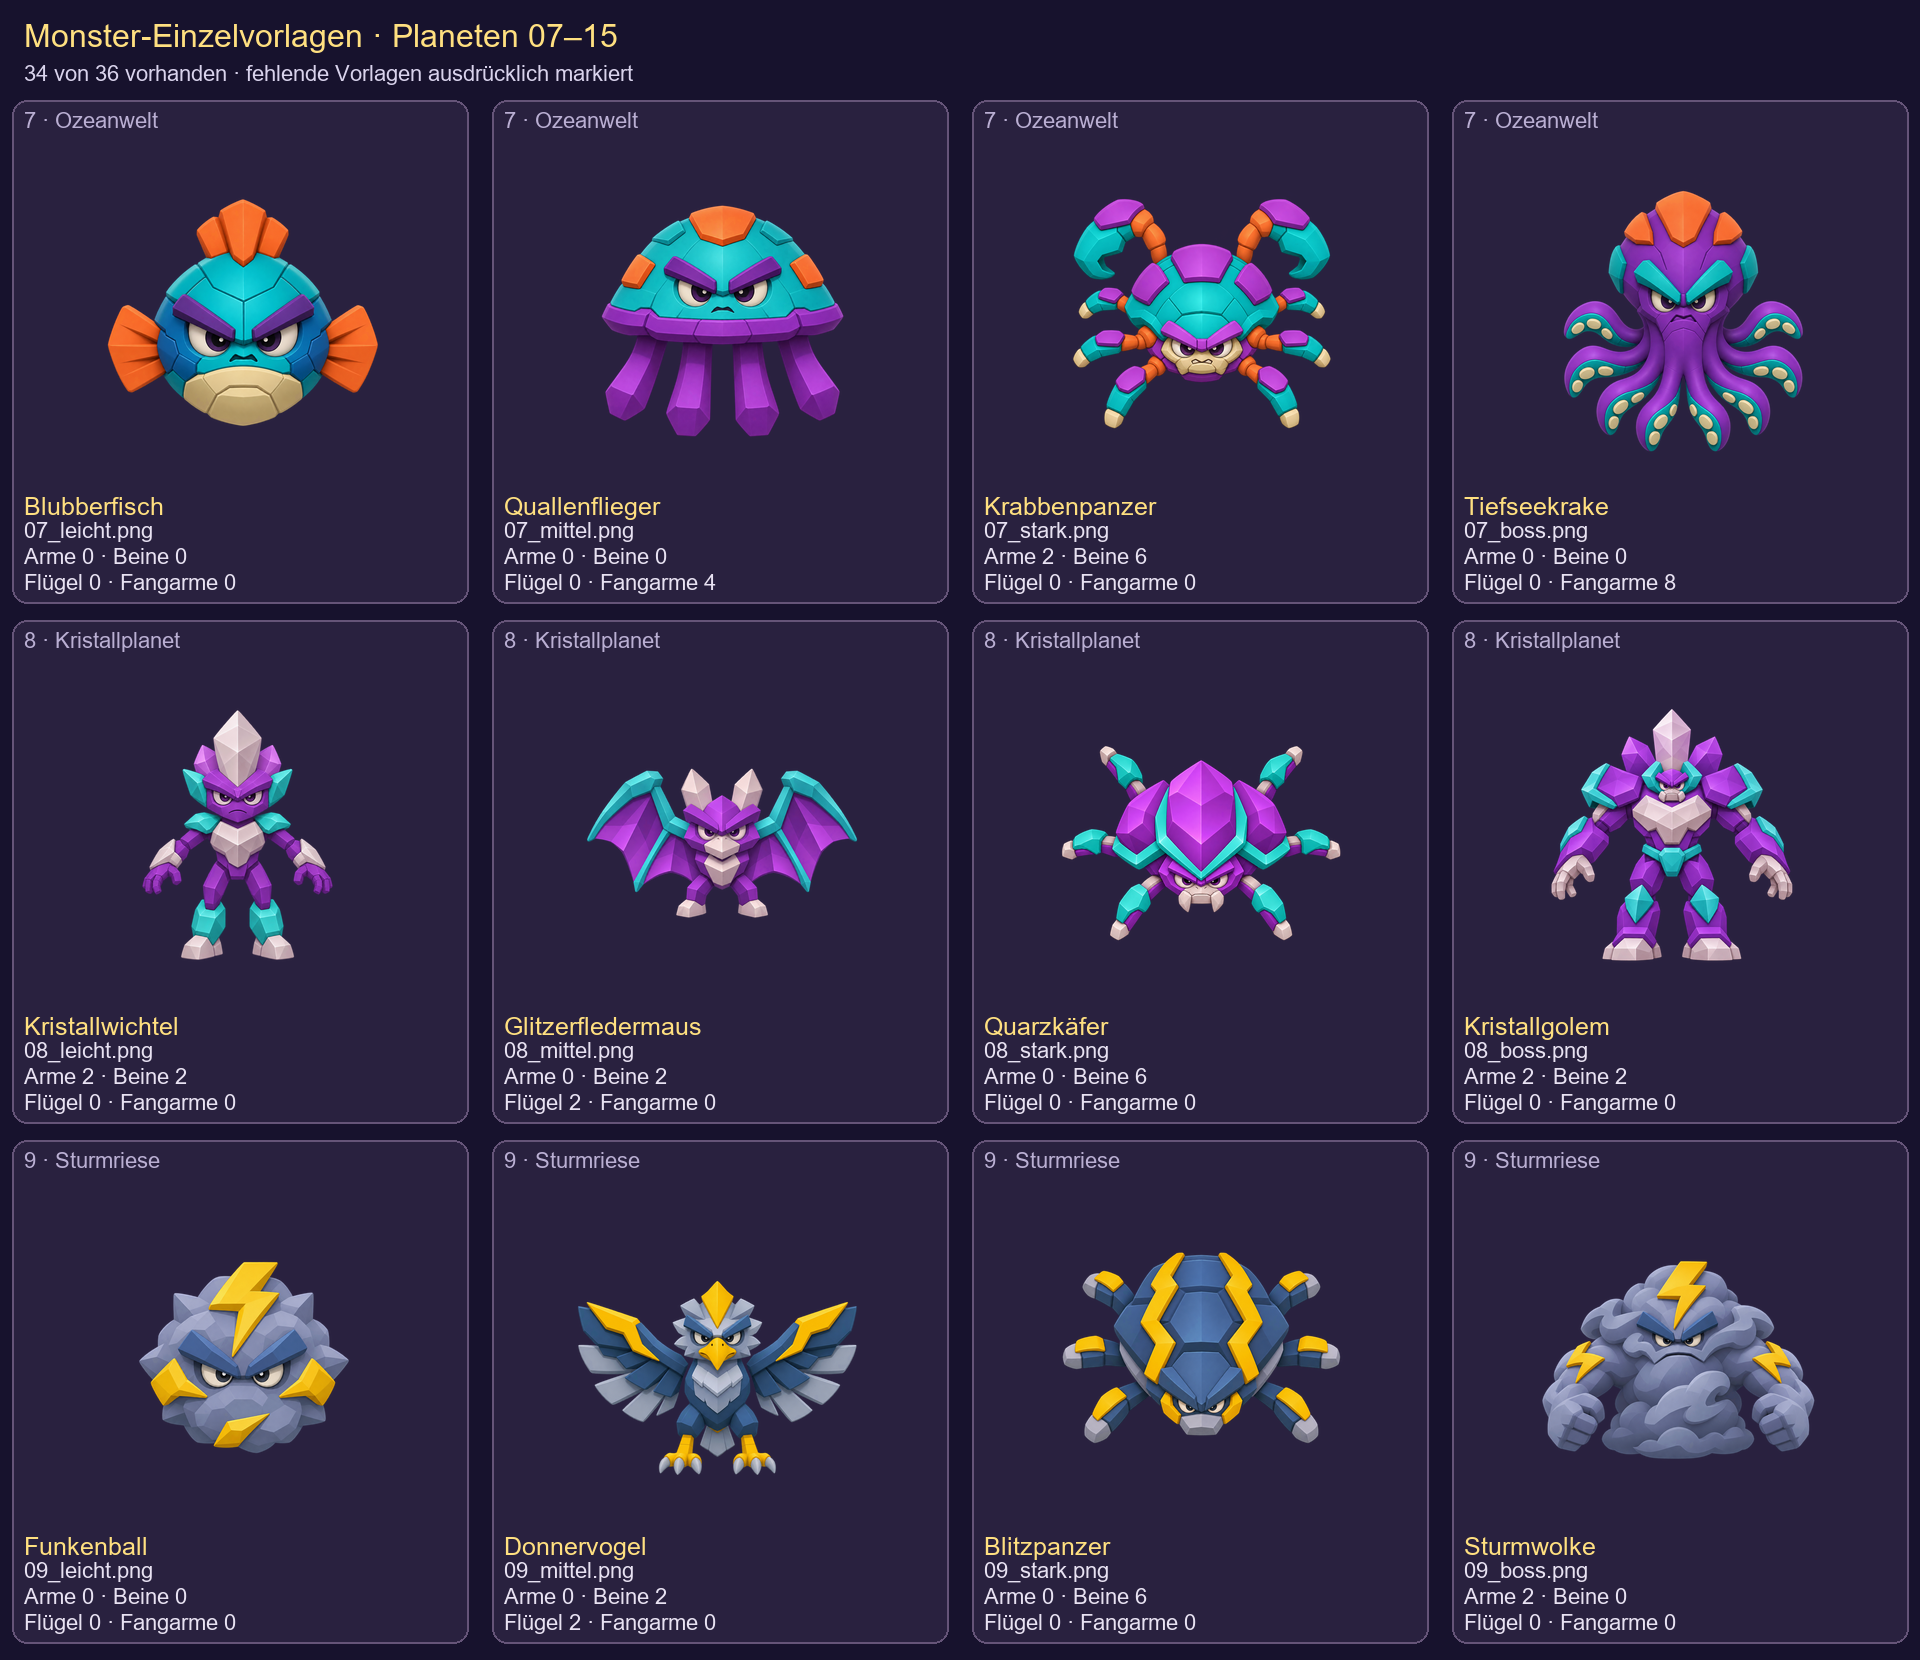
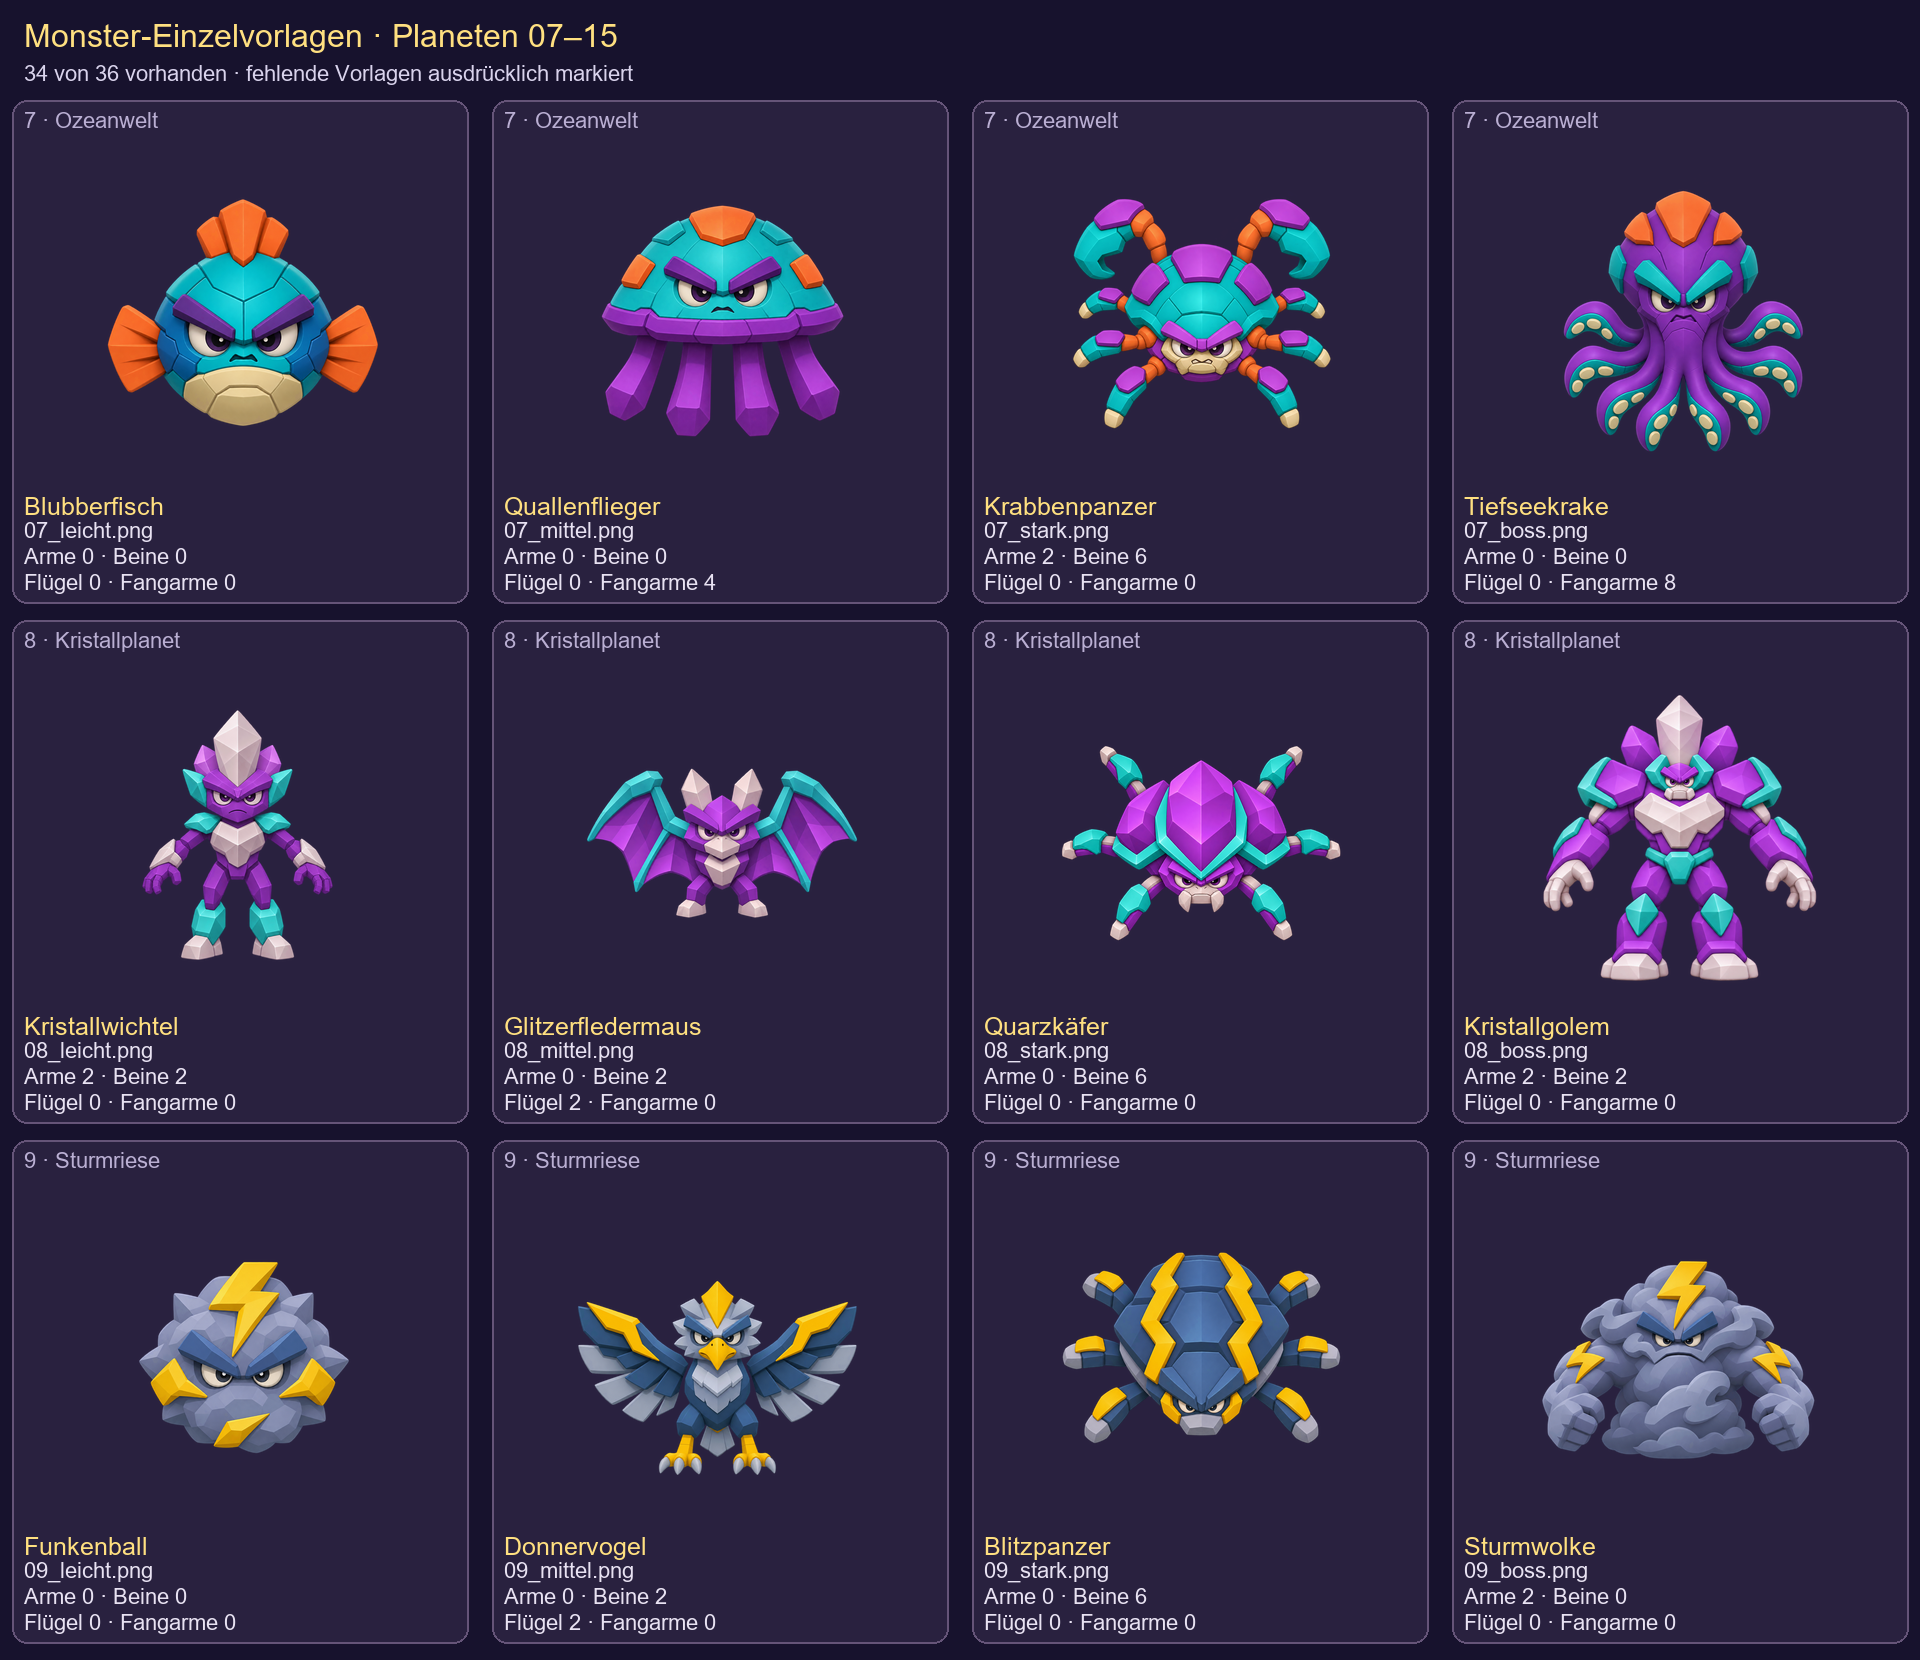
Gezielten Monster-Stilfeinschliff übernehmen und bisherige Fassungen archivieren

Changed region(s): [[0.7812, 0.4301, 0.9688, 0.6145]]

diff --git a/Vorlage_Raw/Gegner_51_150_v1/Einzelvorlagen/Stilfeinschliff_v2/LIESMICH_CLAUDE.md b/Vorlage_Raw/Gegner_51_150_v1/Einzelvorlagen/Stilfeinschliff_v2/LIESMICH_CLAUDE.md
@@ -1,0 +1,29 @@
+# Gezielter Stilfeinschliff – Version 2
+
+Stand: 10.11.2026. Der Nutzer hat die Umsetzung der Stil-Empfehlung beauftragt und ausdrücklich ergänzt, dass der Schlundwächter nur geringfügig verändert werden soll.
+
+## Drei gezielte Überarbeitungen
+
+- **11_boss.png – Himmelswächter:** relativ größerer Kopf, kürzere und kräftigere Körperproportionen, weichere Hände, Stiefel und Panzerkanten. Weiß, Hellblau und Gold, Helm, Gesicht und zwei Flügel bleiben erkennbar erhalten. Der entschlossene Ausdruck bleibt; keine Babyfigur.
+- **08_boss.png – Kristallgolem:** hauptsächlich weichere Übergänge an Händen, Gelenken, Stiefeln und Panzerkanten. Große Kristalle und die facettierte violett-türkise Rüstung bleiben erhalten. Keine zusätzlichen Splitter oder Texturdetails.
+- **15_boss.png – Schlundwächter:** nur sehr dezente Abrundungen und weichere Übergänge. Silhouette, Proportionen, Helm, Schultern, Brustkern sowie Violett, Gold und Cyan bleiben weitgehend erhalten. Der markante Endboss-Charakter ist ausdrücklich gewünscht.
+
+Die übrigen Monster wurden für diesen Feinschliff nicht neu erzeugt. Die bisherigen drei PNGs bleiben bytegleich im Unterordner `bisher/` erhalten. Die überarbeiteten PNGs stehen auch direkt im übergeordneten Ordner als aktuelle Vorlagen. Diese Version liegt zusätzlich als dokumentiertes Paket vor; `vergleich_vorher_nachher.png` zeigt links die bisherige und rechts die angepasste Fassung. Der Nutzer hat anschließend beauftragt, alles in dieser Fassung für Claude bereitzustellen. Die drei neuen Fassungen sind deshalb die aktuellen Bildvorlagen. Kein Spielcode oder bestehendes GLB wurde ersetzt.
+
+## Technik und Anatomie
+
+Alle drei Einzelbilder: **1024 × 1024 PNG, RGBA mit echter Transparenz**, Motiv mittig mit mindestens etwa zehn Prozent freiem Rand. Keine Bodenplatte, kein Schlagschatten, kein Text, keine frei schwebenden Effekte. Die Formatierung beschränkt sich auf proportionale Größenanpassung und transparenten Rand.
+
+| Datei | Arme | Beine | Flügel | Fangarme |
+|---|---:|---:|---:|---:|
+| 11_boss.png | 2 | 2 | 2 | 0 |
+| 08_boss.png | 2 | 2 | 0 | 0 |
+| 15_boss.png | 2 | 2 | 0 | 0 |
+
+Die Gliedmaßen wurden visuell gezählt. Hände, Füße und Flügel sind vollständig sichtbar. Die Frontansicht und offene A-Pose bleiben als Grundlage für die spätere Modellproduktion erhalten. Bei einem erzeugten 3D-Modell muss die Anatomie trotzdem erneut aus mehreren Richtungen geprüft werden.
+
+`uebersicht.png` zeigt die neuen Varianten gemeinsam. `DATEIPRUEFUNG.json` enthält Abmessungen, Alpha-Motivgrenzen und Prüfsummen, `BILDANWEISUNGEN.json` die verwendeten Prompts und Referenzen. Es wurde ausschließlich die eingebaute Bildgenerierung verwendet, kein Meshy, kein Rigging und keine zusätzlichen kostenpflichtigen Dienste.
+
+## Einbauhinweis
+
+Beim Vergleich und späteren 3D-Test dieselbe Kamera, Beleuchtung und Materialrauheit für alte und neue Figuren verwenden. Sonst kann trotz passender Formen ein Stilbruch durch die Darstellung entstehen. Keine zusätzlichen realistischen Kratzer, Gravuren oder kleinen Panzerfacetten ergänzen. Die fehlenden Vorlagen `11_leicht.png` und `12_boss.png` werden durch dieses Paket nicht ergänzt; ihr Status im Hauptpaket bleibt offen.

diff --git a/Vorlage_Raw/Gegner_51_150_v1/Einzelvorlagen/LIESMICH_CLAUDE.md b/Vorlage_Raw/Gegner_51_150_v1/Einzelvorlagen/LIESMICH_CLAUDE.md
@@ -11,7 +11,14 @@ Die automatische Prüfung der eingebauten Bildgenerierung hat bei beiden Motiven
 
 ## Freigabe und Umfang
 
-Die drei Ozeanvorlagen `07_leicht`, `07_mittel`, `07_boss` sind vom Nutzer freigegeben und bytegleich übernommen. Der Krabbenpanzer `07_stark` ist ergänzt und zeigt sechs Laufbeine plus zwei Scherenarme. 30 weitere neue Einzelvorlagen für Planet 08–15 liegen vor; die beiden oben genannten fehlen noch. Die bestätigten Monsterdesigns dienen als Referenz; die neuen Einzelvorlagen selbst sind noch nicht separat vom Nutzer abgenommen.
+Die drei Ozeanvorlagen `07_leicht`, `07_mittel`, `07_boss` sind vom Nutzer freigegeben und bytegleich übernommen. Der Krabbenpanzer `07_stark` ist ergänzt und zeigt sechs Laufbeine plus zwei Scherenarme. 30 weitere neue Einzelvorlagen für Planet 08–15 liegen vor; die beiden oben genannten fehlen noch. Die bestätigten Monsterdesigns dienen als Referenz. Der Nutzer hat die gezielten drei Stilkorrekturen umgesetzt und für Claude bereitgestellt haben wollen; andere Vorlagen wurden durch diesen Feinschliff nicht verändert.
+
+
+## Aktueller Stand: Stilfeinschliff übernommen
+
+Auf Nutzerauftrag vom 10.11.2026 sind **08_boss.png, 11_boss.png und 15_boss.png direkt in diesem Ordner die neuen aktuellen Fassungen**. Für die spätere Modellproduktion diese Dateien verwenden. Der Himmelswächter ist kompakter und weicher, der Kristallgolem hat weichere Übergänge. Der Schlundwächter wurde ausdrücklich nur minimal verändert und behält seinen Endboss-Charakter.
+
+Die vorherigen drei PNGs sind bytegleich unter `Stilfeinschliff_v2/bisher/` archiviert. `Stilfeinschliff_v2/vergleich_vorher_nachher.png` und dessen Liesmich dokumentieren die Änderung. Es gibt weiterhin 34 vorhandene Einzelvorlagen und zwei offene Motive, keine zusätzlichen GLBs. Die drei bereits freigegebenen Ozeanvorlagen bleiben bytegleich.
 
 ## Bildformat
 
@@ -69,7 +76,3 @@ Arme enthält beim Krabbenpanzer die zwei Scherenarme; Fangarme werden separat g
 `kontrolle.png` zeigt alle 36 geplanten Positionen mit Zählwerten; die zwei Lücken sind klar markiert. `kontrolle_01.png` bis `kontrolle_03.png` teilen die Übersicht in gut lesbare Seiten. `DATEIPRUEFUNG.json` enthält Abmessungen, Alpha-Motivgrenzen, Prüfsummen und anatomische Hinweise. Die Prompts stehen in `BILDANWEISUNGEN.json`.
 
 Dies sind Bildvorlagen, keine GLB-Dateien. Keine Meshy-Erzeugung, kein Rigging und keine Animationen beauftragt oder ausgeführt, **0 Meshy-Credits verbraucht**. Vor einer späteren Erzeugung muss der Nutzer die Kosten freigeben. Nach der Erzeugung erneut Vorder-, Seiten-, Ober- und Unteransicht prüfen: Eine korrekte Bildvorlage garantiert keine korrekte Modellanatomie. Die nicht sichtbare Rückseite ist durch diese Einzelansichten nicht definiert.
-
-## Ergänzende Stilprüfung
-
-Die nachträgliche Sorge des Nutzers zum Übergang wurde geprüft. STILPRUEFUNG.md enthält die Einschätzung und selektive Empfehlungen; stilvergleich.png zeigt frühere und neue Figuren sowie kleine Ansichten. Keine bestätigten Designs wurden dafür pauschal neu gestaltet.

diff --git a/Vorlage_Raw/Gegner_51_150_v1/Einzelvorlagen/STILPRUEFUNG.md b/Vorlage_Raw/Gegner_51_150_v1/Einzelvorlagen/STILPRUEFUNG.md
@@ -1,5 +1,7 @@
 # Stilprüfung: bisherige und neue Monster
 
+**Aktualisierung 10.11.2026:** Die unten begründeten gezielten Anpassungen sind auf Nutzerauftrag umgesetzt. Aktuell gelten die neuen Dateien `11_boss.png`, `08_boss.png` und `15_boss.png` im Hauptordner. Der Schlundwächter ist nur minimal angepasst. Frühere Fassungen liegen unter `Stilfeinschliff_v2/bisher/`. Die folgende Bewertung dokumentiert den Ausgangspunkt; der dort beschriebene Proportionsausreißer Himmelswächter ist inzwischen korrigiert.
+
 Die folgende Einschätzung beantwortet die Sorge des Nutzers vor einem zu starken Stilwechsel. Sie ist eine gestalterische Empfehlung, keine zusätzliche Designfreigabe und kein Auftrag für neue kostenpflichtige Modelle.
 
 ## Ergebnis
